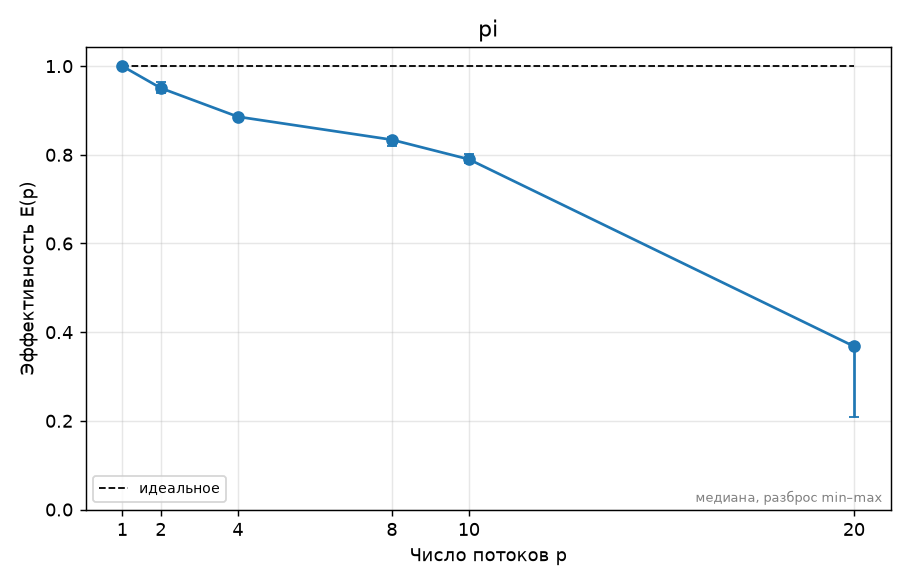
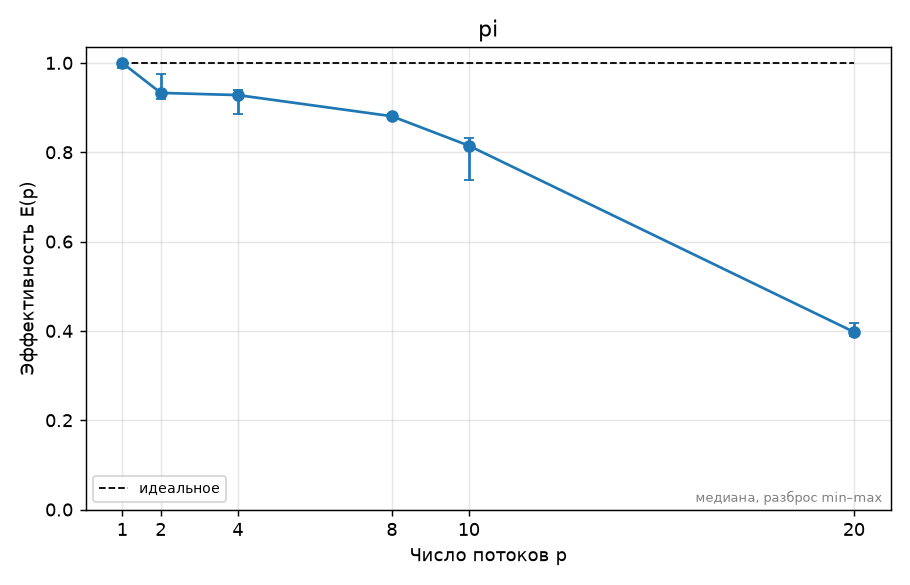
правки

diff --git a/hw0/REPORT.md b/hw0/REPORT.md
@@ -2,7 +2,7 @@
 
 ## 1. Прогноз
 
-Прогноз сохранён до замеров отдельным коммитом `5468d44`.
+Прогноз сохранён до первых замеров отдельным коммитом.
 На 2 потоках ожидаю ускорение 1,8 раза, на 4 — 3,5, на 10 — 5–6 раз.
 На процессоре 4 P-ядра и 6 E-ядер, поэтому ускорение не обязано быть линейным.
 На 20 потоках ожидаю примерно тот же результат, что на 10, или хуже: ядер всего 10.
@@ -12,9 +12,10 @@
 [Паспорт компьютера](../SYSTEM.md): Apple M4, 10 физических и логических ядер
 (4 P + 6 E), 16 ГБ ОЗУ, macOS 27.0.1.
 Компилятор GCC 16.2.0, OpenMP 5.2, флаги `-O2 -std=c11 -Wall -Wextra -fopenmp`.
-Энергосбережение выключено; `pmset` показал AC Power, но аккумулятор — discharging.
-IDE и фоновые приложения не закрывались, поэтому условия замеров не полностью
-соответствуют рекомендации задания.
+Повторная серия выполнена при питании от сети: `pmset` показал AC Power,
+AC attached перед серией и charging после; заряд аккумулятора 78%,
+энергосбережение выключено (`lowpowermode=0`).
+IDE и фоновые приложения не закрывались; их влияние на разброс не исключено.
 
 ## 3. Методика
 
@@ -39,17 +40,18 @@ make plots
 
 ## 4. Результаты
 
-Замеры выполнены 8 ноября 2026 года, исходные данные — [results/pi.csv](results/pi.csv).
+Повторные замеры выполнены 8 ноября 2026 года при подключённом адаптере питания;
+они заменяют предыдущую серию. Исходные данные — [results/pi.csv](results/pi.csv).
 Ускорение S(p) = T(1)/T(p), эффективность E(p) = S(p)/p.
 
 | Потоков | Медиана времени, с | Ускорение | Эффективность |
 |---:|---:|---:|---:|
-| 1 | 0,697558 | 1,000 | 1,000 |
-| 2 | 0,366931 | 1,901 | 0,951 |
-| 4 | 0,196841 | 3,544 | 0,886 |
-| 8 | 0,104545 | 6,672 | 0,834 |
-| 10 | 0,088305 | 7,899 | 0,790 |
-| 20 | 0,094746 | 7,362 | 0,368 |
+| 1 | 0,737172 | 1,000 | 1,000 |
+| 2 | 0,395108 | 1,866 | 0,933 |
+| 4 | 0,198594 | 3,712 | 0,928 |
+| 8 | 0,104634 | 7,045 | 0,881 |
+| 10 | 0,090484 | 8,147 | 0,815 |
+| 20 | 0,092702 | 7,952 | 0,398 |
 
 ![Время](plots/pi_time.png)
 
@@ -57,27 +59,29 @@ make plots
 
 ![Ускорение](plots/pi_speedup.png)
 
-Лучшее ускорение — 7,90 раза на 10 потоках; усы показывают min–max пяти измерений.
+Лучшее ускорение — 8,15 раза на 10 потоках; усы показывают min–max пяти измерений.
 
 ![Эффективность](plots/pi_eff.png)
 
-Эффективность падает с 95% на 2 потоках до 37% на 20.
+Эффективность падает с 93% на 2 потоках до 40% на 20.
 
 ## 5. Объяснение расхождений с прогнозом
 
-На 2 и 4 потоках прогноз близок к результату: 1,90 и 3,54 раза.
-На 10 потоках получилось 7,90 вместо 5–6: предположительно, вклад E-ядер оказался
+На 2 и 4 потоках прогноз близок к результату: 1,87 и 3,71 раза.
+На 10 потоках получилось 8,15 вместо 5–6: предположительно, вклад E-ядер оказался
 выше ожидаемого, но размещение потоков по ядрам не отслеживалось.
-На 20 потоках время выросло на 7,3% относительно 10: дополнительные потоки делят
-те же ядра и добавляют расходы планирования, что согласуется с прогнозом.
-На 20 потоках есть выброс 0,166630 с при медиане 0,094746 с; его причина не установлена.
+На 20 потоках медиана времени выше на 2,5% относительно 10: дополнительные потоки
+делят те же ядра и добавляют расходы планирования, что согласуется с прогнозом.
+Диапазоны времени на 10 и 20 потоках пересекаются (0,088511–0,100040 с и
+0,088414–0,095041 с), поэтому небольшую разницу нельзя считать устойчивой
+без дополнительных серий.
 RESULT на разных числах потоков отличается примерно на 1e-12 из-за порядка
 суммирования double, что укладывается в допуск 1e-9.
 
 ## 6. Выводы
 
-Для этой задачи выбираю 10 потоков: минимальная медиана времени 0,088305 с.
+Для этой задачи выбираю 10 потоков: минимальная медиана времени 0,090484 с.
 Переподписка до 20 потоков ускорения не дала, эффективность снизилась.
 Для следующих задач число потоков нужно проверять заново.
-Для более строгого замера следует повторить серию при подтверждённом питании
-от сети и закрытых фоновых приложениях.
+Повторная серия выполнена при подтверждённом питании от сети.
+Для уменьшения влияния фоновой нагрузки можно повторить её с закрытыми приложениями.

diff --git a/SYSTEM.md b/SYSTEM.md
@@ -22,7 +22,7 @@ _Сгенерировано `tools/sysinfo.sh` 2026-11-08 19:50._ Проверь
 | omp_get_num_procs / omp_get_max_threads | 10 / 10 |
 | clang (для TSan) | Apple clang version 21.0.0 (clang-2100.1.1.101) |
 | Режим питания | lowpowermode=0  |
-| Питание при замерах (вручную: сеть/батарея) | Перед серией 08.11.2026 pmset сообщил AC Power, аккумулятор — 94%, discharging. Неоднозначность диагностики зафиксирована; lowpowermode=0. |
+| Питание при замерах (вручную: сеть/батарея) | Повторная серия 08.11.2026: AC Power до и после замеров; перед серией AC attached, not charging, после — charging; аккумулятор 78%; lowpowermode=0. |
 | Пиковая полоса памяти по STREAM, ГБ/с (заполнить в ДЗ3) | |
 
 Если P/E-ядра не определились автоматически, найдите модель процессора на сайте производителя и впишите вручную.
